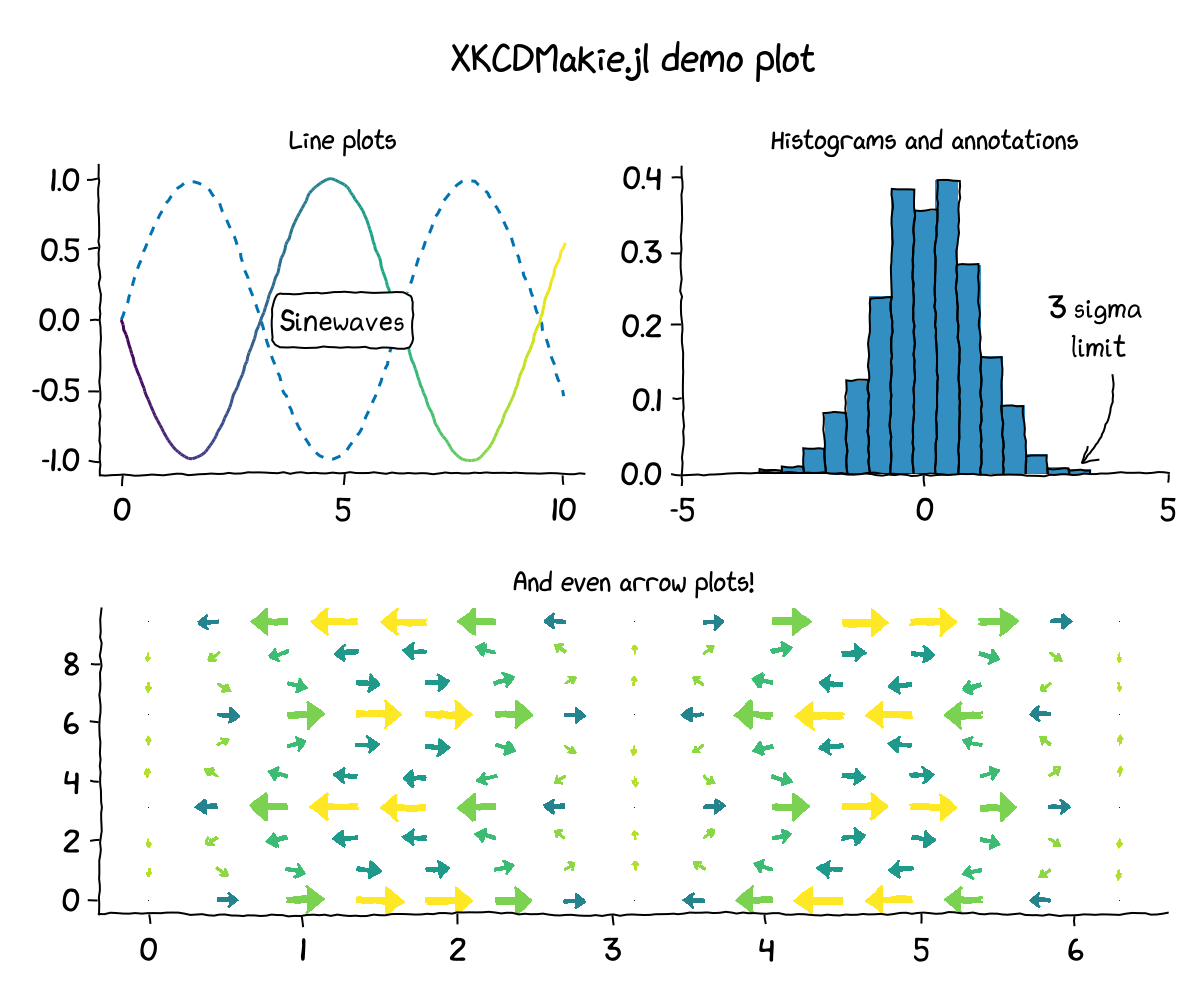
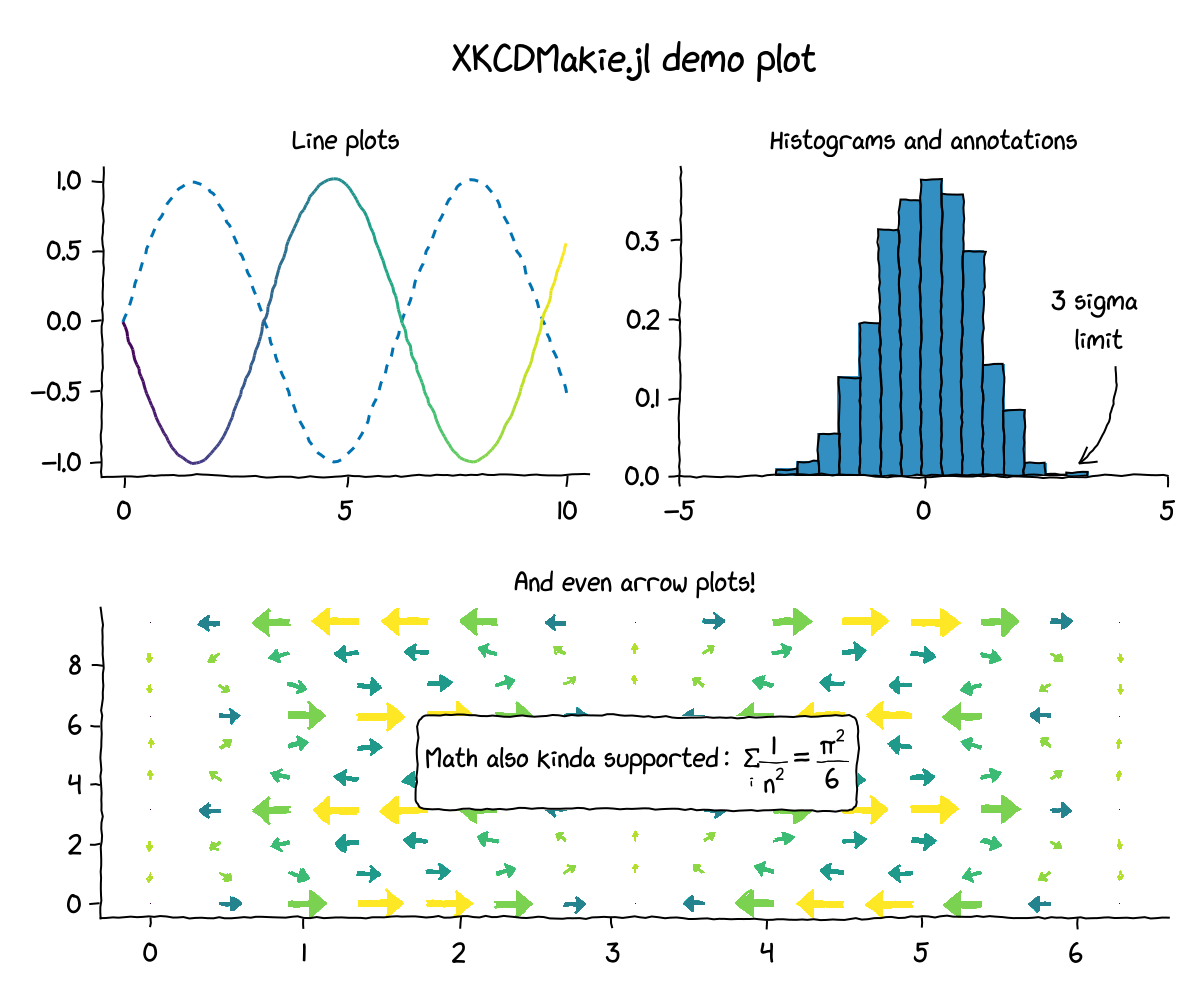
Experimental math support, README updated

diff --git a/README.md b/README.md
@@ -15,45 +15,25 @@ or
 ]add XKCDMakie
 ```
 
-Use it the same way you use `CairoMakie`. After `import`ing the package, the whole XKCD mode behaves like a Makie theme, which you can update or disable by running `Makie.set_theme!`. See `theme_xkcd` for more info.
+Use it the same way you use `CairoMakie`. 
+
+## Configuration
+
+You can use [Makie theme mechanism](https://docs.makie.org/dev/explanations/theming/themes) to configure the look of the plots. The theme responsible for this look-and-feel is `theme_xkcd`, which allows you to configure the following:
+- `gridvisible`: visibility of the grid (default: false)
+- `min_dist`: accuracy of hand-drawn line emulation. Lower is more precise, but heavier to compute (default: 3)
+- `noise_generator`: the noise sampler that is responsible for hand-drawn line emulation (see [CoherentNoise.jl](https://github.com/lazarusA/CoherentNoise.jl)).
+
+> [!note]
+> The font in LaTeX notation cannot be controlled by Makie themes, and custom fonts are not fully supported by the backend. 
+> 
+> XKCDMakie provides experimental support, but it is manually opt-in: use `XKCDMakie.enable_math!()` and `XKCDMakie.enable_math!()`
 
 ## Gallery
 
 All images in this gallery were generated using this package. You can find the code in the [`contrib/`](contrib/) directory.
 
 ![Demo](img/demo.png)
-
-<details>
-<summary>Code for this figure</summary>
-
-```julia
-using XKCDMakie
-
-fig = Figure(size=(600, 500))
-Label(fig[0, 1:2], "XKCDMakie.jl demo plot", fontsize=20, font=:bold)
-
-xs = 0:0.1:10
-lines(fig[1, 1], xs, sin.(xs), axis=(;title="Line plots"), linestyle=:dash)
-lines!(fig[1, 1], xs, -sin.(xs), color=xs)
-textlabel!(fig[1, 1], Point2f(5, 0), "Sinewaves")
-
-hist(fig[1, 2], randn(1000), normalization=:pdf,
-    axis=(;limits=((-5, 5), (0, nothing)), title="Histograms and annotations"))
-n_pdf(x) = 1/sqrt(2pi) * exp(-x^2/2)
-annotation!(fig[1, 2], 3.5, n_pdf(0) / 2, 3, n_pdf(3), text="3 sigma\n limit",
-    path=Ann.Paths.Arc(-0.4), style=Ann.Styles.LineArrow(), labelspace=:data)
-
-xs = LinRange(0, 2pi, 15)
-ys = LinRange(0, 3pi, 10)
-us = [sin(x) * cos(y) for x in xs, y in ys]
-vs = [-cos(x) * sin(y) for x in xs, y in ys]
-strength = vec(sqrt.(us .^ 2 .+ vs .^ 2))
-arrow_fun(x) = Point2f(sin(x[1])*cos(x[2]), -cos(x[1])*sin(x[2]))
-arrows2d(fig[2, 1:2], xs, ys, arrow_fun, lengthscale=0.3, color=strength,
-        axis=(;title="And even arrow plots!"))
-fig
-```
-</details>
 
 **Disclaimer:** these works below belong to Randall Munroe, I only adapted them to XKCDMakie.
 
